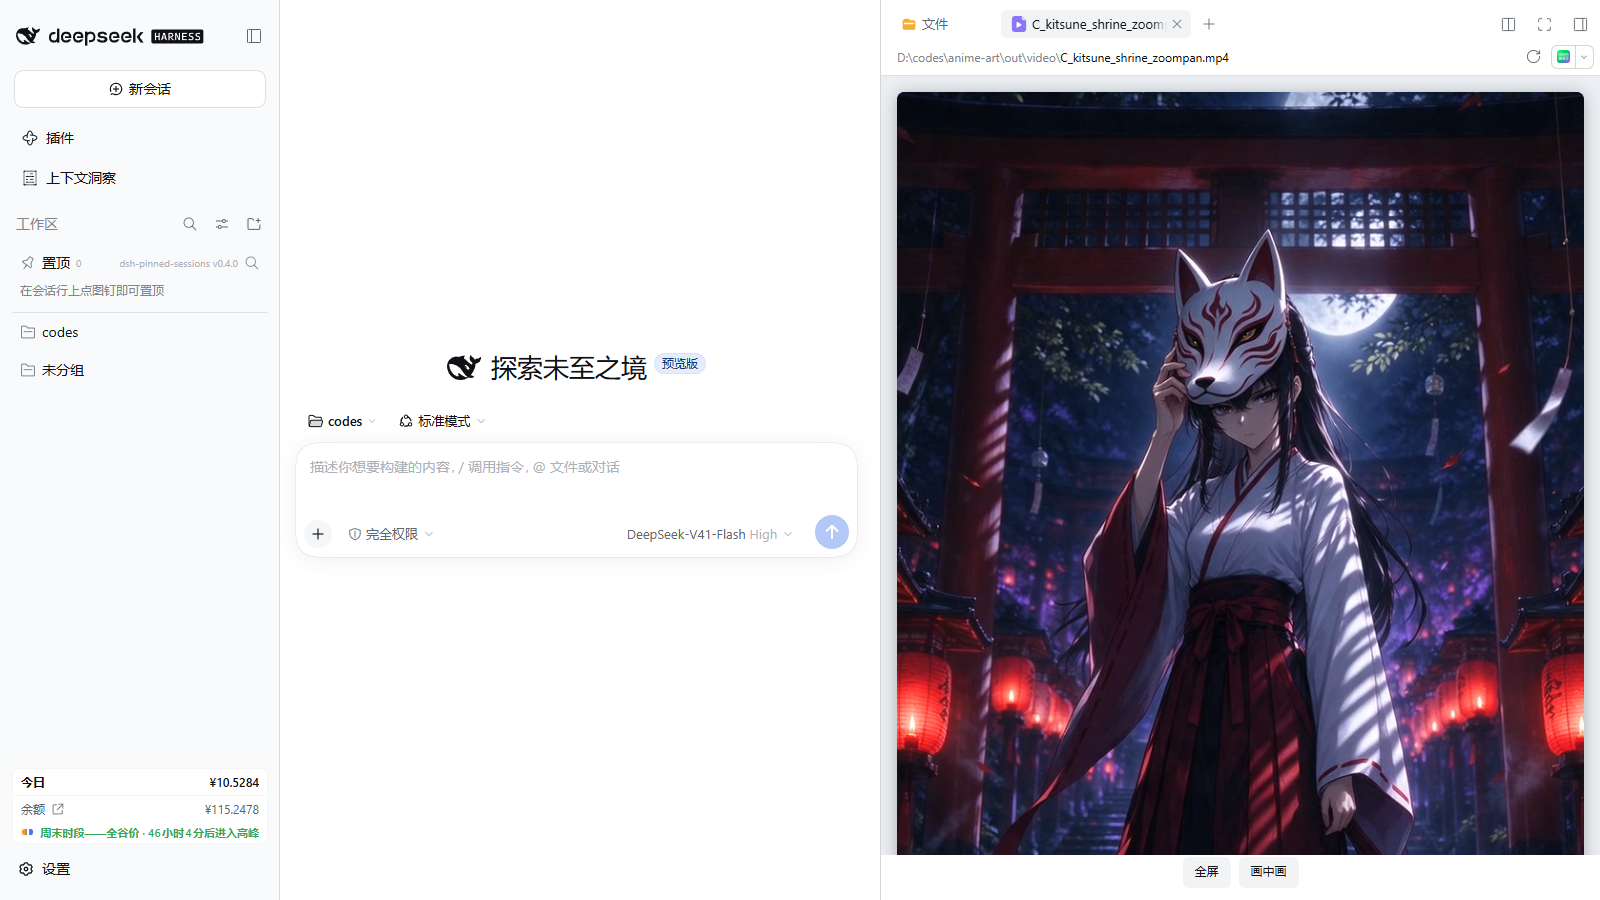
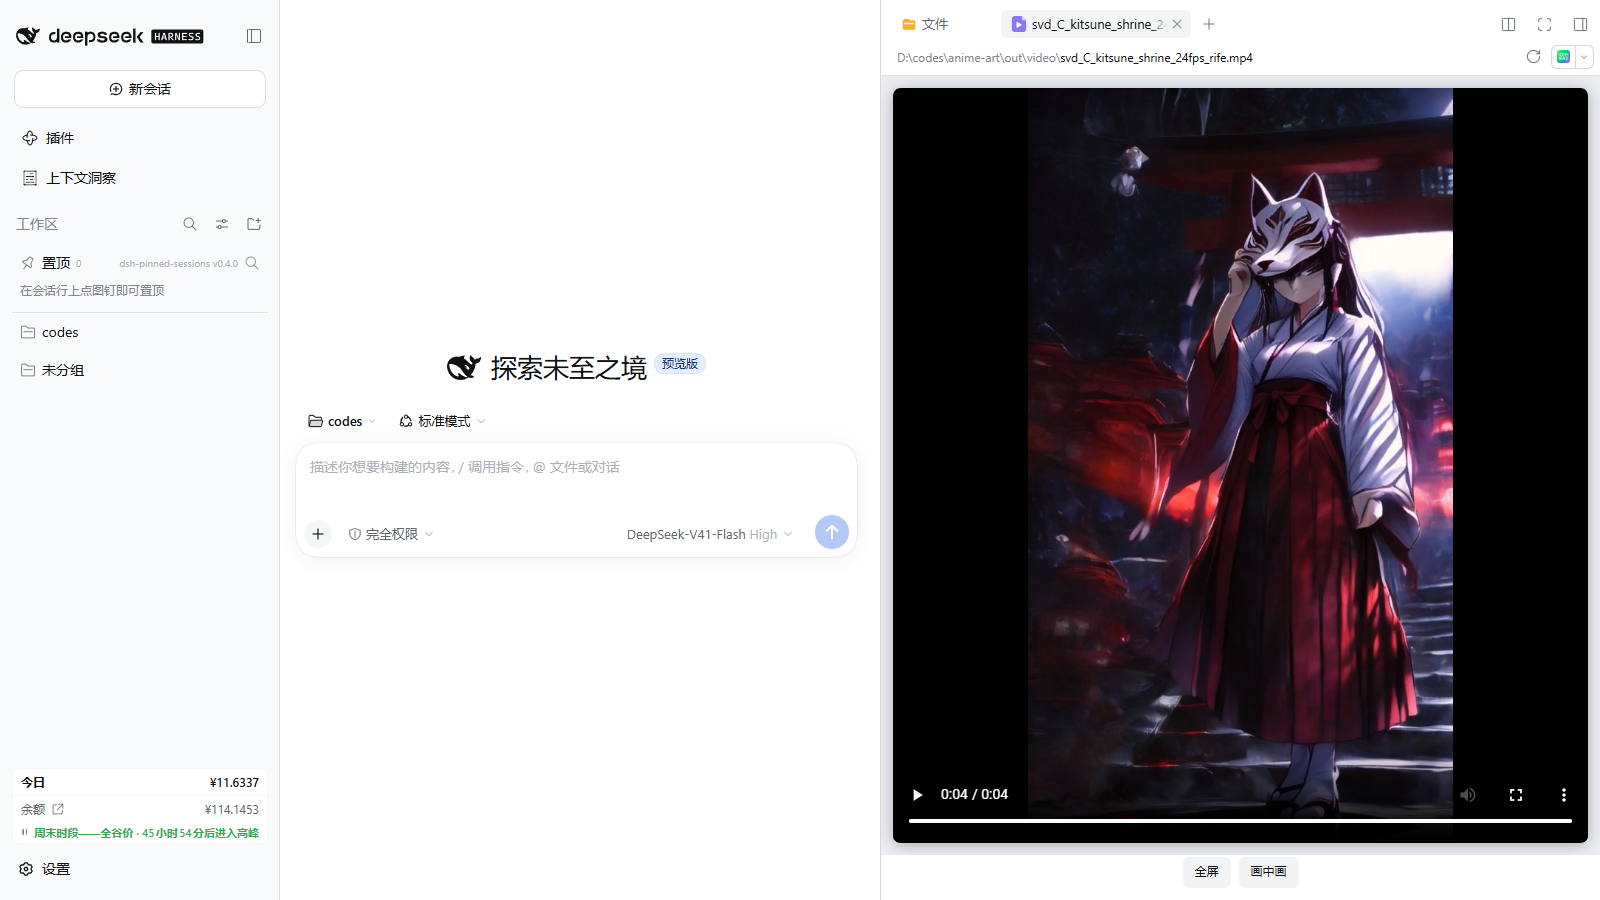
0.1.1: fit the video into the pane instead of overflowing
A portrait clip rendered at the pane's full width and spilled past the bottom
edge. The player now lives in a flexible frame with object-fit: contain, so the
whole frame is visible with letterboxing and the native controls stay reachable.
Adds a contained-bounds regression check to the headless E2E script.

diff --git a/lib/client.js b/lib/client.js
@@ -49,9 +49,11 @@ window.__ModuleLoader__.load({
     /** Scoped styles; every selector starts at the root attribute. */
     const STYLE = [
       '[data-media-preview]{display:flex;flex-direction:column;flex:auto;height:100%;min-height:0;box-sizing:border-box;color:var(--dsw-alias-label-primary,#1f2329)}',
-      '[data-media-preview] .dsh-mp-viewport{display:flex;flex:auto;min-height:0;align-items:center;justify-content:center;padding:16px;box-sizing:border-box;background:var(--dsw-alias-bg-document-preview,#0f1115);overflow:auto}',
-      '[data-media-preview] .dsh-mp-stage{position:relative;display:flex;flex-direction:column;align-items:center;gap:10px;width:100%;max-height:100%}',
-      '[data-media-preview] .dsh-mp-player{display:block;width:100%;max-width:100%;max-height:100%;border-radius:10px;background:#000;object-fit:contain;box-shadow:0 2px 16px rgba(0,0,0,.28)}',
+      '[data-media-preview] .dsh-mp-viewport{display:flex;flex:1 1 auto;min-height:0;min-width:0;align-items:stretch;justify-content:center;padding:12px;box-sizing:border-box;background:var(--dsw-alias-bg-document-preview,#0f1115);overflow:hidden}',
+      '[data-media-preview] .dsh-mp-stage{display:flex;flex-direction:column;flex:1 1 auto;min-height:0;min-width:0;align-items:center;justify-content:center;gap:8px;width:100%}',
+      '[data-media-preview] .dsh-mp-box{display:flex;flex:1 1 auto;min-height:0;min-width:0;width:100%;align-items:center;justify-content:center;border-radius:10px;overflow:hidden;background:#000;box-shadow:0 2px 16px rgba(0,0,0,.28)}',
+      '[data-media-preview] .dsh-mp-player{display:block;border-radius:10px;background:#000;object-fit:contain;box-shadow:0 2px 16px rgba(0,0,0,.28)}',
+      '[data-media-preview] .dsh-mp-player[data-kind="video"]{width:100%;height:100%;max-width:none;max-height:none;border-radius:0;background:transparent;box-shadow:none}',
       '[data-media-preview] .dsh-mp-player[data-kind="audio"]{position:static;width:100%;max-width:340px;height:40px;background:transparent;box-shadow:none;border-radius:0}',
       '[data-media-preview] .dsh-mp-audio{display:flex;flex-direction:column;align-items:center;gap:12px;padding:28px 20px;width:min(420px,100%);border-radius:14px;background:var(--dsw-alias-bg-layer-2,rgba(255,255,255,.06));box-sizing:border-box;text-align:center}',
       '[data-media-preview] .dsh-mp-audio-name{font-size:14px;font-weight:600;overflow-wrap:anywhere;margin:0}',
@@ -268,7 +270,12 @@ window.__ModuleLoader__.load({
         React.createElement(
           "div",
           { className: "dsh-mp-viewport" },
-          React.createElement("div", { className: "dsh-mp-stage" }, audioCard, isVideo ? element : null, status)
+          React.createElement(
+            "div",
+            { className: "dsh-mp-stage" },
+            isVideo ? React.createElement("div", { className: "dsh-mp-box" }, element) : audioCard,
+            status
+          )
         ),
         isVideo ? actions : null
       );

diff --git a/README.md b/README.md
@@ -24,7 +24,7 @@ To check it loaded, open any `.mp4` from the Files tab: the preview pane shows t
 ## What it does
 
 - **Renderer** — registers two document-previews implementations, `dsh-media-preview/media` (video suffixes) and `dsh-media-preview/audio` (audio suffixes), with priority `extension`, `loading: 'renderer'`, and their suffixes declared binary so the “plain text” fallback is not offered.
-- **Player** — a native `<video>`/`<audio>` element with the browser's own controls. Video adds **全屏 / Full screen** and **画中画 / Picture in picture** buttons. Audio shows a card with the file name, its size and the player. The body reports `loaded` / `failed` back to the document preview owner so the tab's loading state settles.
+- **Player** — a native `<video>`/`<audio>` element with the browser's own controls. The video is fitted into the pane with `object-fit: contain` inside a flexible frame, so a portrait or landscape clip is fully visible at once, with black letterboxing instead of spilling past the preview edge. Video adds **全屏 / Full screen** and **画中画 / Picture in picture** buttons. Audio shows a card with the file name, its size and the player. The body reports `loaded` / `failed` back to the document preview owner so the tab's loading state settles.
 - **Stream** — a Host route `GET|HEAD /api/media-preview?path=<absolute path>` that answers `200` with `Accept-Ranges: bytes`, `206` with `Content-Range` for one byte window, `416` with `Content-Range: bytes */size` for an unsatisfiable window, and `HEAD` with headers only. It reads the file a chunk at a time (`chunkBytes`, 1 MiB by default) through `ctx.fs.readByteRange`, so memory stays flat.
 - **Authentication** — the route lives under `/api/`, which means the composition's connection service applies its Host/Origin fence and browser-session cookie check before the handler runs. A cross-site page cannot read local files through it.
 

diff --git a/README.zh.md b/README.zh.md
@@ -24,7 +24,7 @@ dsh plugin --profile <profile> add dsh-media-preview
 ## 它做了什么
 
 - **渲染器** — 注册两个文档预览实现：`dsh-media-preview/media`（视频后缀）与 `dsh-media-preview/audio`（音频后缀），优先级 `extension`，`loading: 'renderer'`，后缀同时声明为二进制，因此不再提供「纯文本」兜底。
-- **播放器** — 原生 `<video>` / `<audio>` 元素，带浏览器自带控件。视频额外提供 **全屏** 与 **画中画** 按钮；音频显示文件卡片（文件名、大小、播放器）。body 会把 `loaded` / `failed` 回报给预览所有者，标签页的加载态才能收尾。
+- **播放器** — 原生 `<video>` / `<audio>` 元素，带浏览器自带控件。视频用 `object-fit: contain` 装进自适应框里，竖屏、横屏都一屏完整显示（多出来的是黑边），不会撑出预览区；另提供 **全屏** 与 **画中画** 按钮。音频显示文件卡片（文件名、大小、播放器）。body 会把 `loaded` / `failed` 回报给预览所有者，标签页的加载态才能收尾。
 - **流式路由** — Host 端 `GET|HEAD /api/media-preview?path=<绝对路径>`：`200` + `Accept-Ranges: bytes`；`206` + `Content-Range`（单窗口）；`416` + `Content-Range: bytes */size`；`HEAD` 只回头。实现上每次通过 `ctx.fs.readByteRange` 读一块（`chunkBytes`，默认 1 MiB），内存占用恒定。
 - **鉴权** — 路由挂在 `/api/` 下，连接服务的 Host/Origin 防护与浏览器会话 cookie 校验在进入 handler 之前执行，跨站页面无法借它读本地文件。
 

diff --git a/docs/VERIFY.md b/docs/VERIFY.md
@@ -1,8 +1,21 @@
-# Verification record — dsh-media-preview 0.1.0
+# Verification record — dsh-media-preview 0.1.1
 
 DSH Desktop 0.2.0-rc.2, Windows 11, Node 24.22.0 / pnpm 11.7.0.
 
-Published coordinates: npm `dsh-media-preview@0.1.0` (dist-tags.latest = 0.1.0, integrity `sha512-NHnHV/lcir+JfwqU/QqXheHXQmUdOoWSHFVUILWfwGQBBlj5V/nMUhdf9Z9Np0W3OZ9h8TSyfH37JFA2JyD30A==`), repository `github.com/439436269-ctrl/dsh-media-preview`, remote `main` commit `88973b9`.
+Published coordinates: npm `dsh-media-preview` (latest: 0.1.1; 0.1.0 was the first release), repository `github.com/439436269-ctrl/dsh-media-preview`.
+
+## 0.1.1 — video fits the pane
+
+A 720x1280 portrait clip used to render at the pane's full width and spill past the bottom edge. The body now wraps the player in a flexible `.dsh-mp-box` and the video uses `width/height: 100%` plus `object-fit: contain`, so the frame is fully visible at once with black letterboxing and the native controls reachable. Re-verified with the same headless flow:
+
+```
+fit: {"pane":{"width":719,"height":824},"player":{"width":695,"height":755},"contained":true,"fullyVisible":true}
+seek: {"target":2,"currentTime":2,"readyState":4}   # window served by the Range route
+play: {"currentTime":3.50,"paused":false,"readyState":4}
+errors: 0
+```
+
+`contained: true` is the regression guard added to `scripts/e2e-browser.mjs`: it compares the player's bounding box with the preview root's.
 
 ## L1 — unit tests
 

diff --git a/CHANGELOG.md b/CHANGELOG.md
@@ -1,5 +1,12 @@
 # Changelog
 
+## 0.1.1 — 2026-10-16
+
+Fit the video to the pane instead of letting it overflow.
+
+- A portrait clip used to render at the pane's full width and spill past the bottom edge (`width: 100%` plus an aspect-derived height). The player now sits in a flexible frame that fills the pane and the video uses `object-fit: contain`, so the whole frame is visible at once with the native controls reachable.
+- The frame keeps a black letterbox and a rounded border; the loading/error hint sits under it instead of over the picture.
+
 ## 0.1.0 — 2026-10-16
 
 First release.
